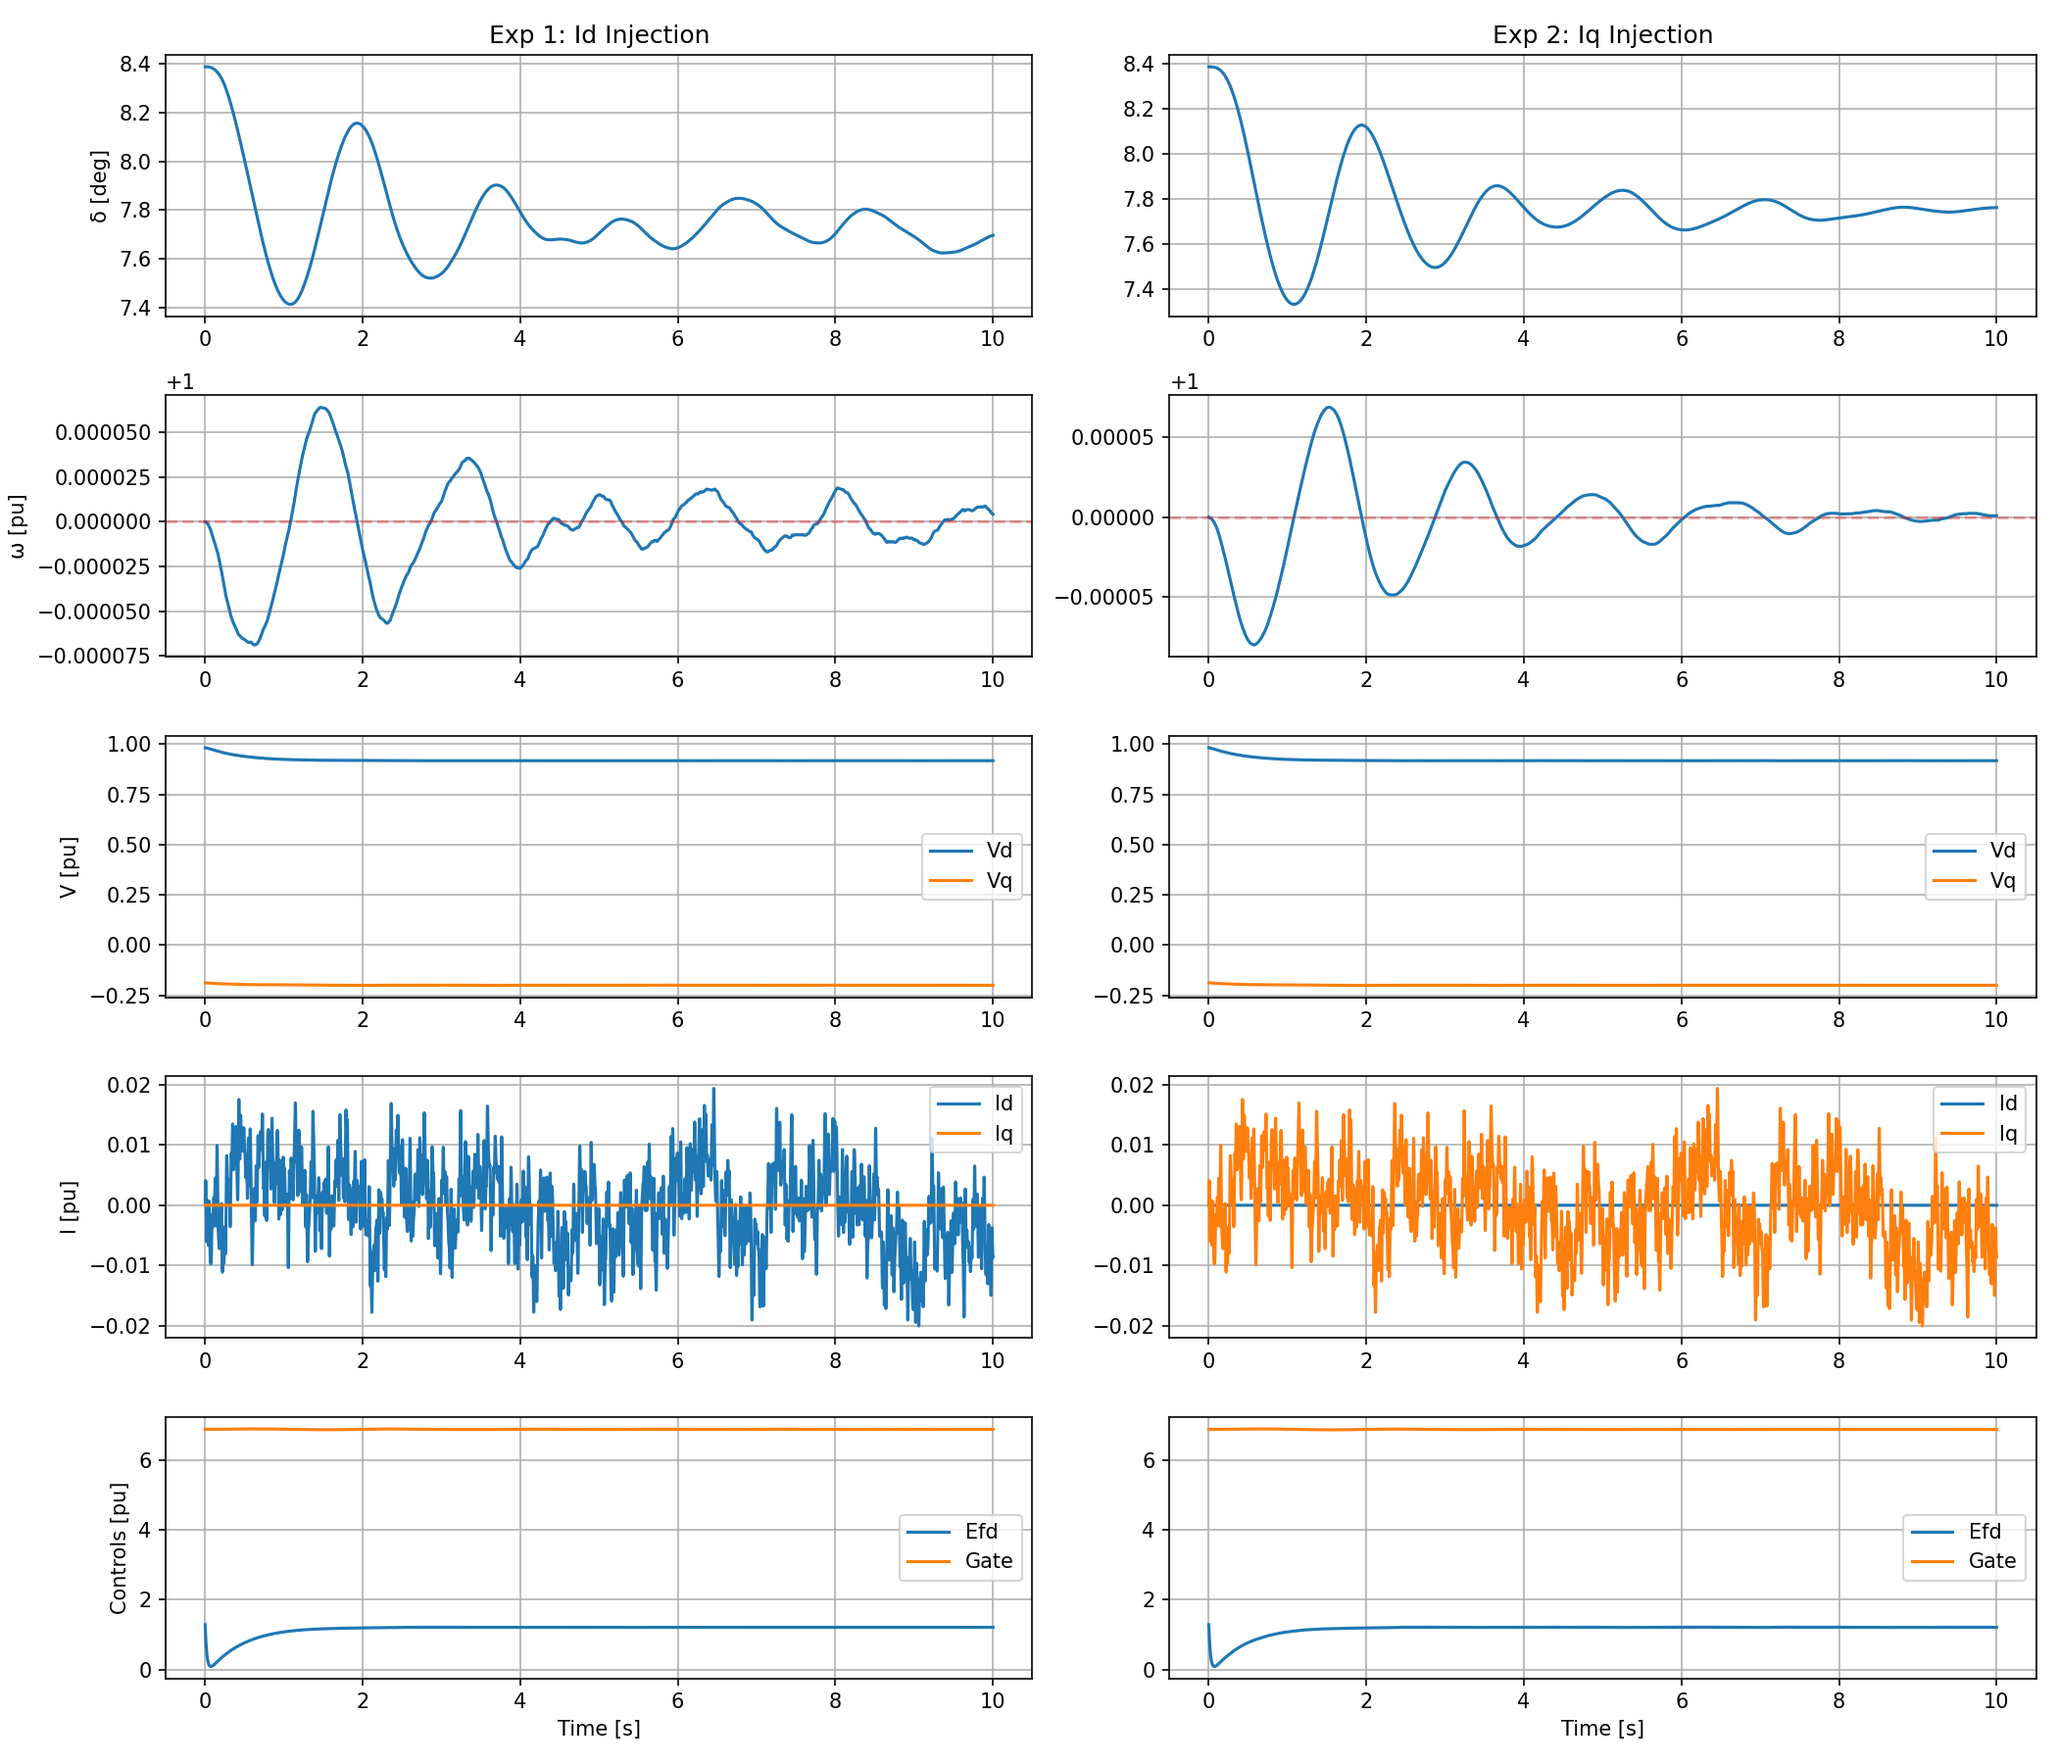
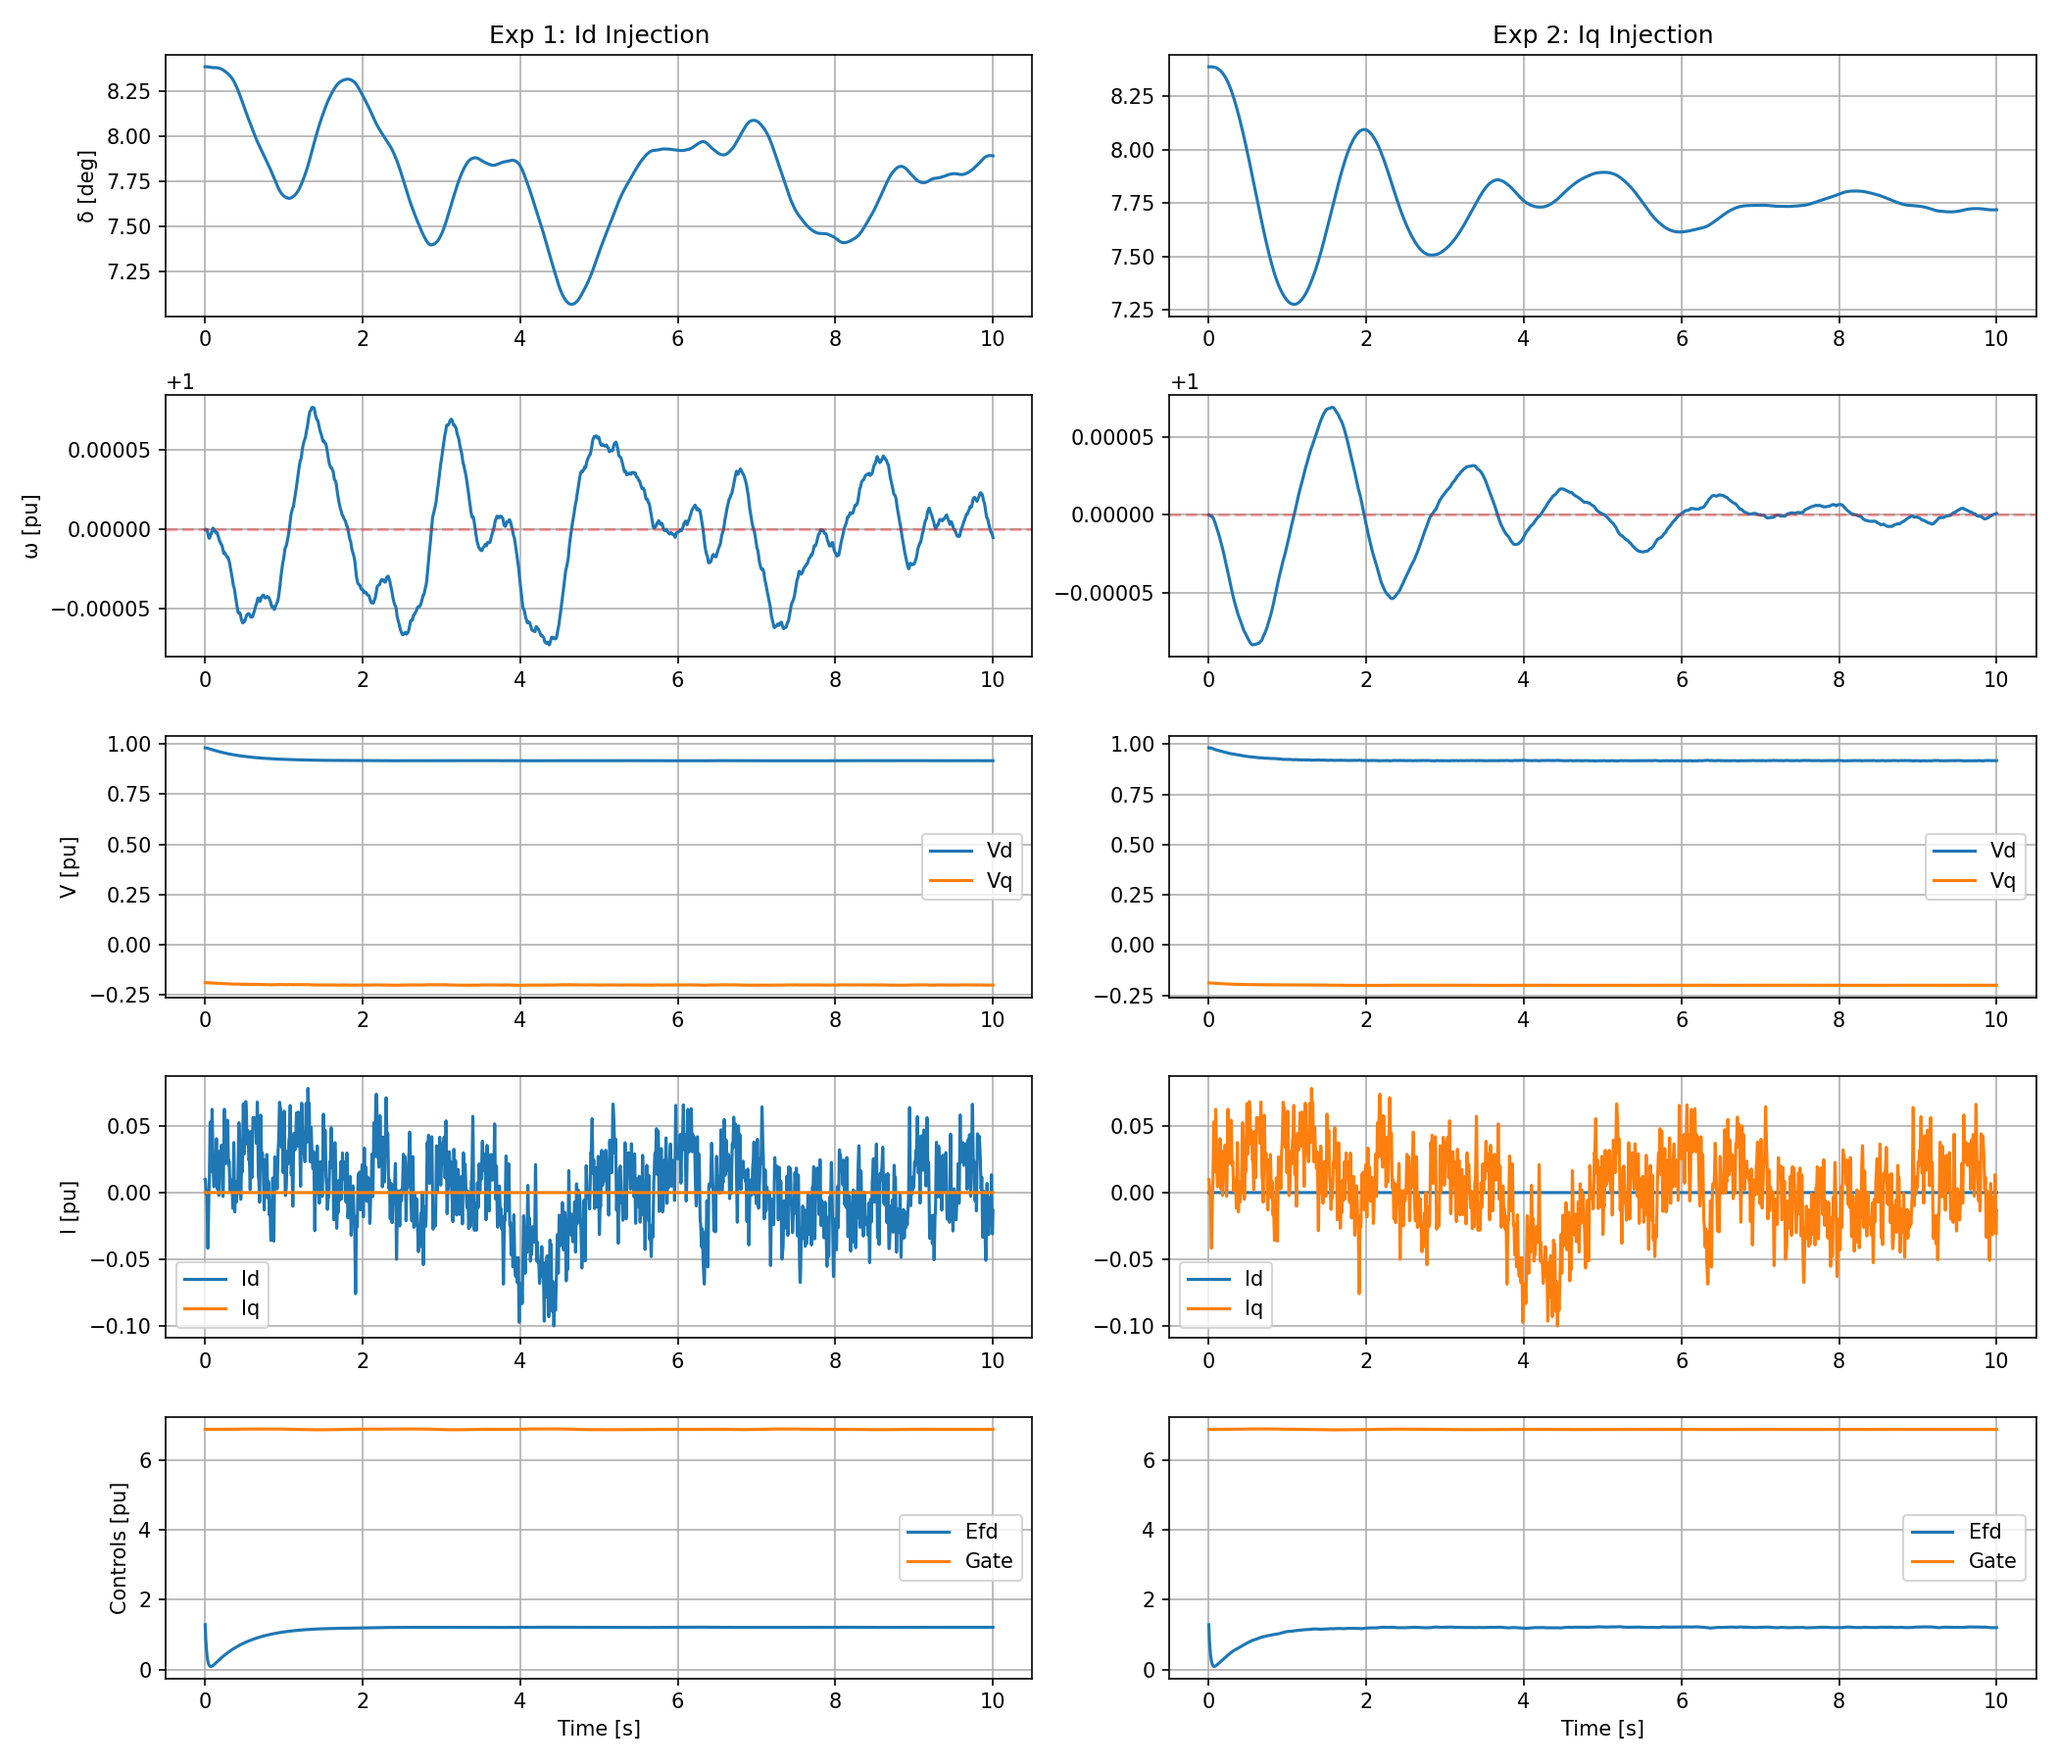
IMTB_impedance scanning added

diff --git a/test_imtb_scanning.py b/test_imtb_scanning.py
@@ -17,9 +17,9 @@ def main():
     # Range
     freqs = np.logspace(-1, 1.7, 30) 
     
-    # Run
+    # Run with increased injection amplitude to see controller response
     f_vec, Z_mimo = scanner.run_mimo_scan(bus_idx=2, freqs_hz=freqs, 
-                                          duration=10.0, amplitude=0.02)
+                                          duration=10.0, amplitude=0.10)
     
     # --- PRINT DETAILED RESULTS ---
     print("\n" + "="*80)
